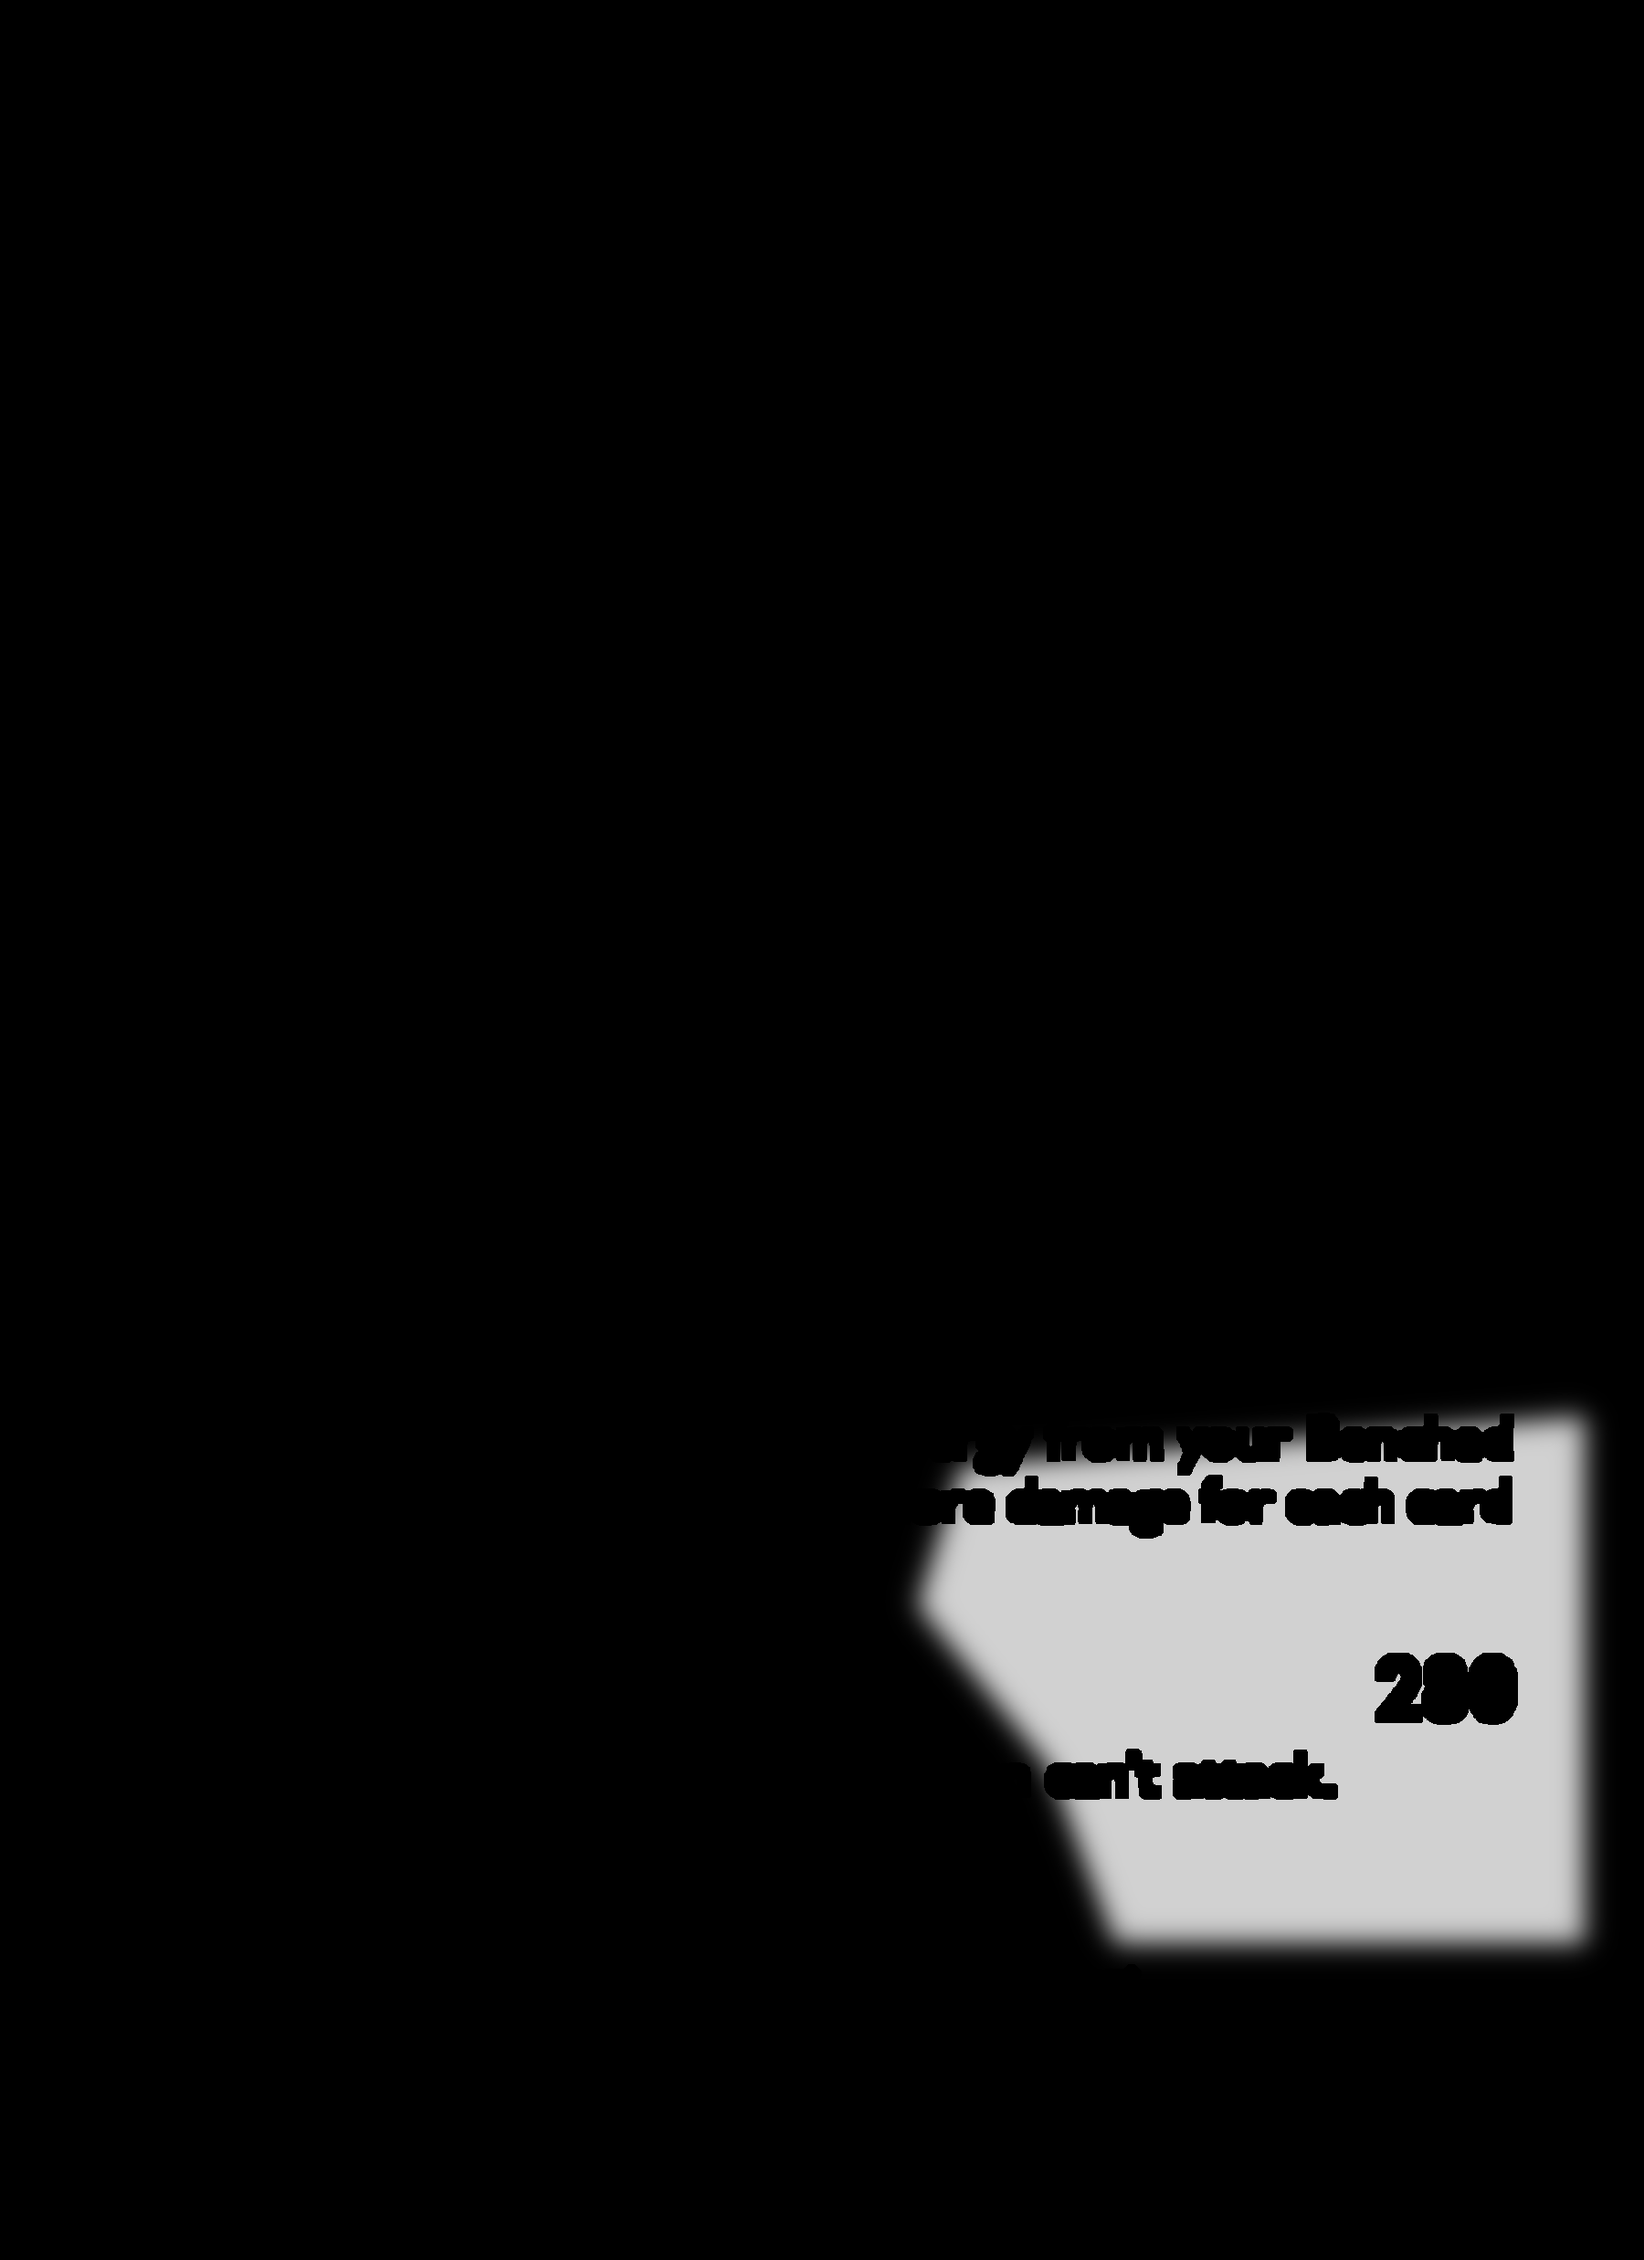
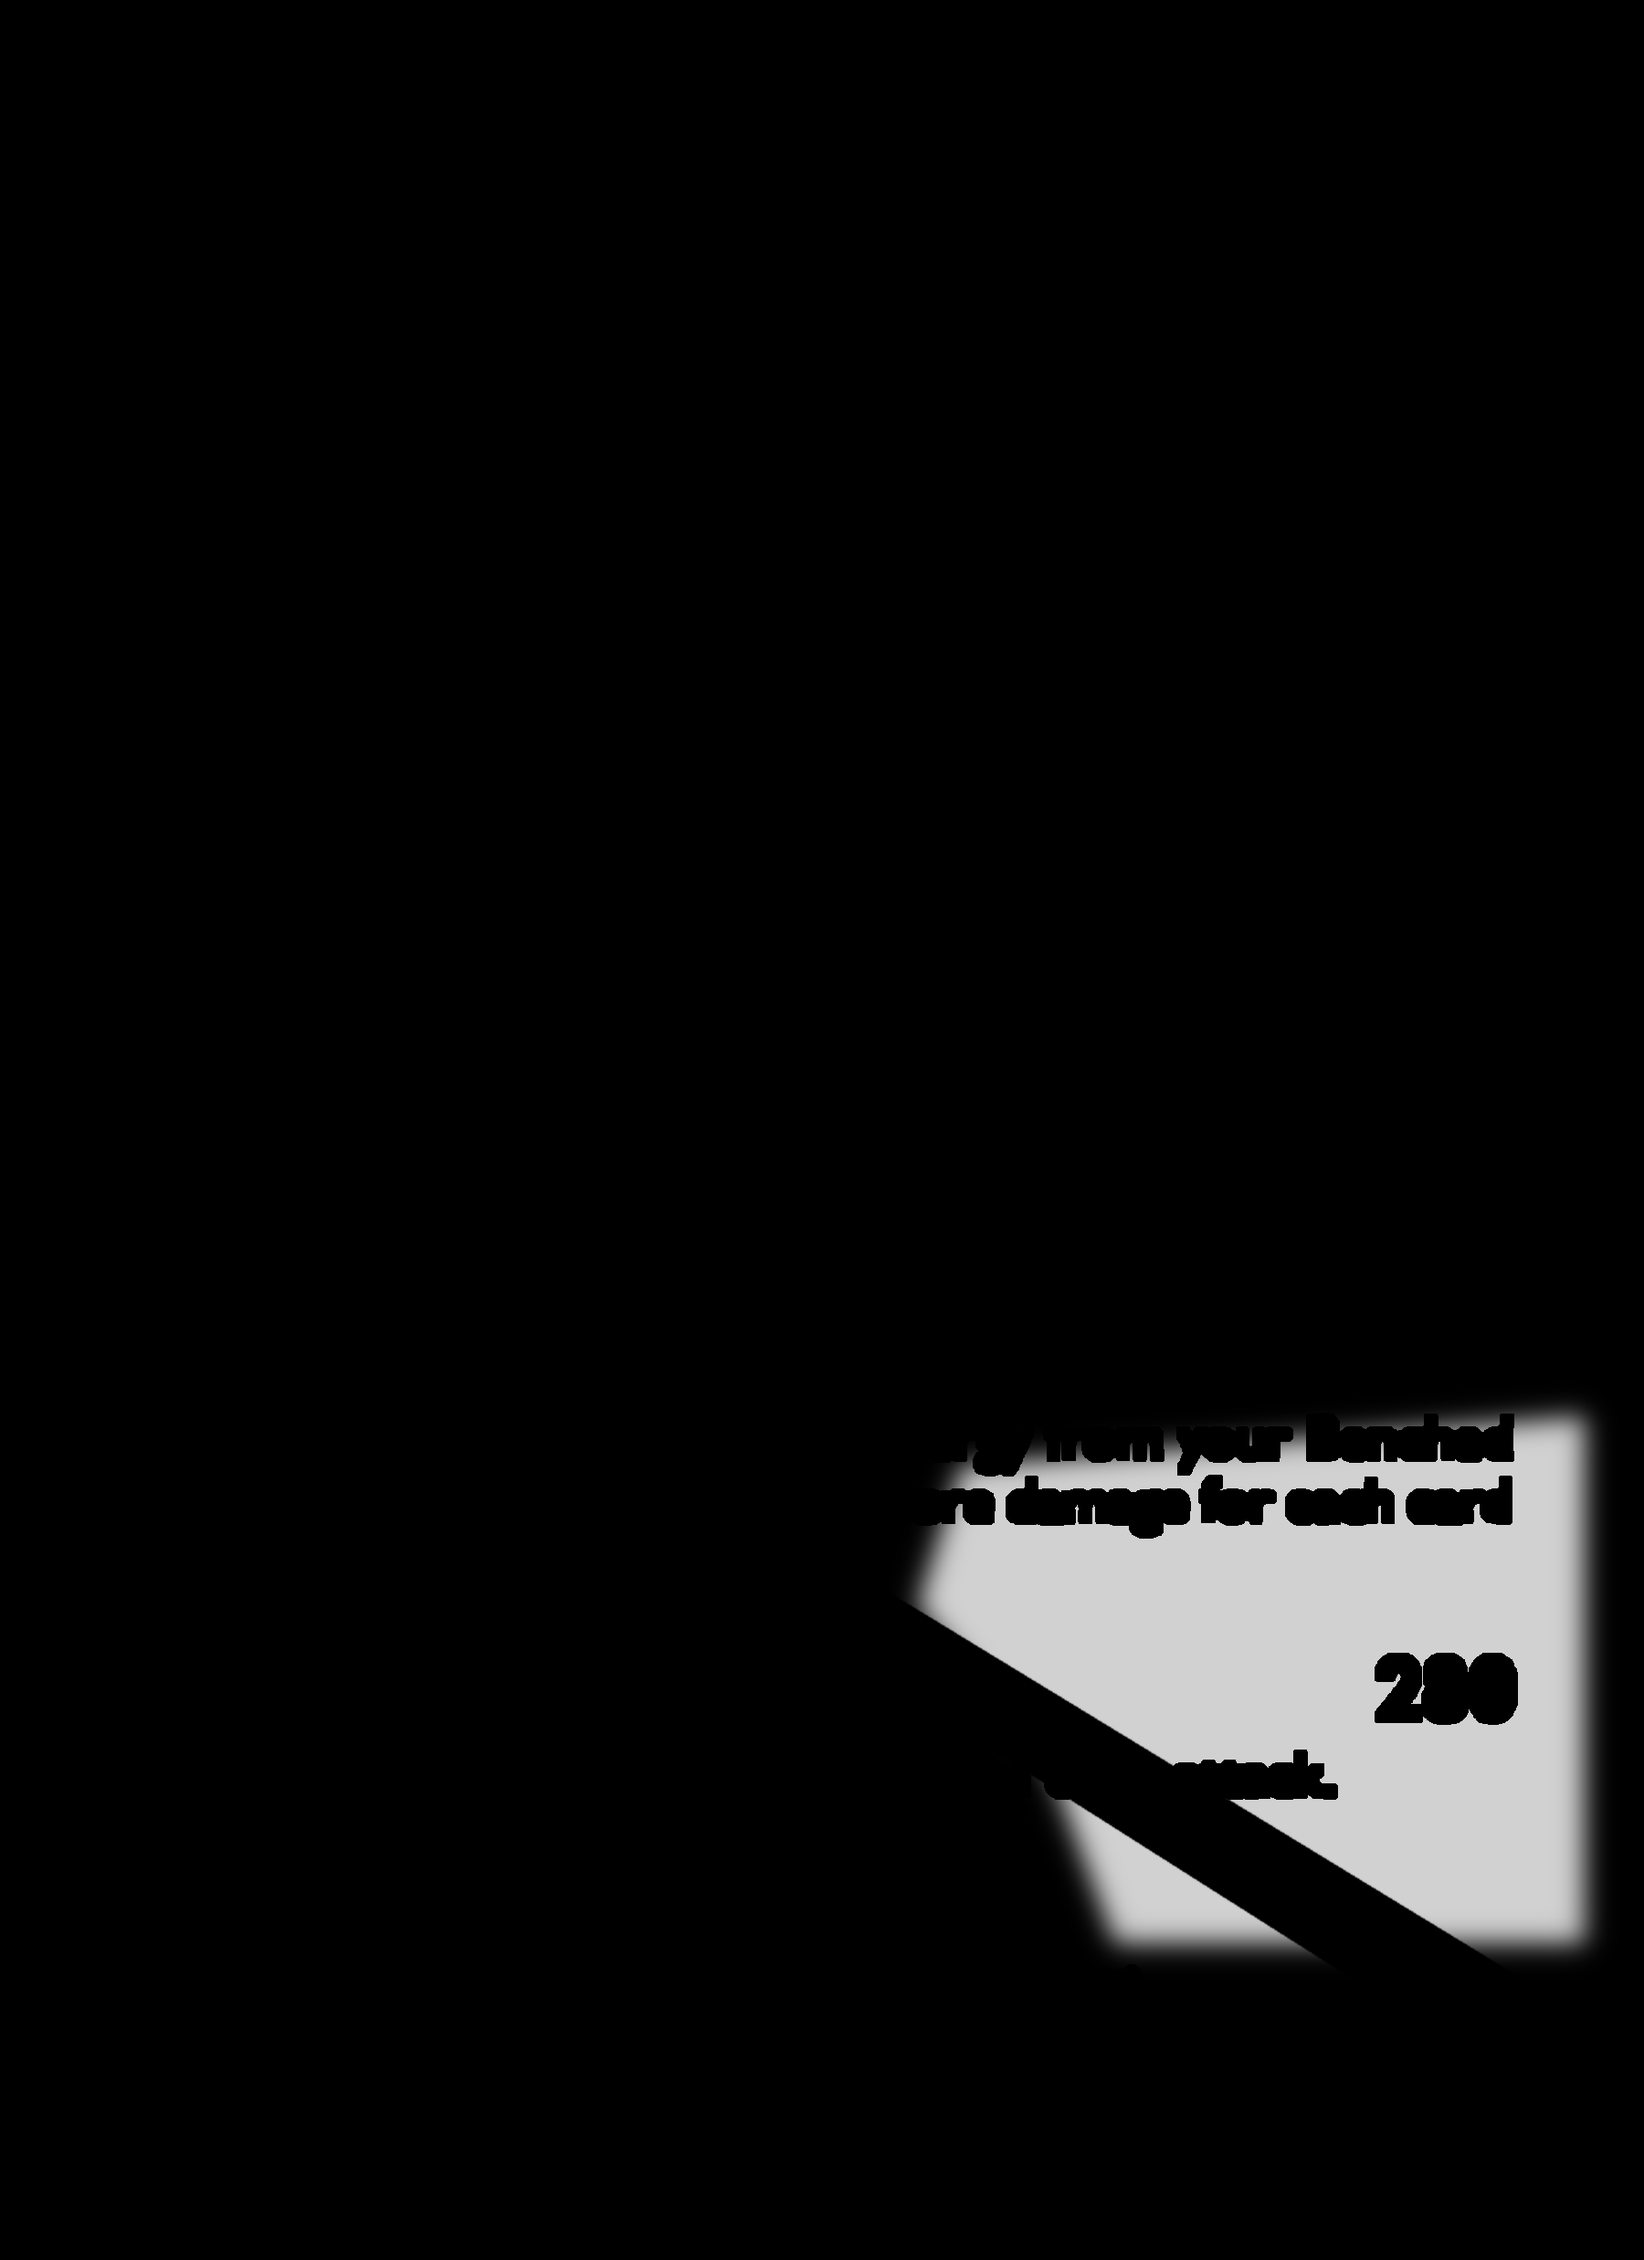
Exclude Jolteon diagonal bar from microdiamond coverage

Changed region(s): [[0.56, 0.7156, 0.9022, 0.8711]]

diff --git a/scripts/prismatic/jolteon_maps.py b/scripts/prismatic/jolteon_maps.py
@@ -69,6 +69,11 @@ def build():
     # transition is an estimate, feathered without following print brightness.
     right=poly([(351,535),(578,517),(578,709),(407,709),(383,645),(335,586)])
     right=cv2.GaussianBlur(right,(0,0),14)*(1-body)*(1-gems)*(1-protection)*.82
+    # The pale diagonal slash is etched foil, not microdiamond material.
+    # Clip after feathering the surrounding field to keep this printed edge crisp.
+    diagonal_bar=poly([(267,548),(306,570),(578,736),
+                       (531,746),(246,565)])
+    right*=1-diagonal_bar
     smooth_micro=np.maximum(gems,silver)*(1-protection)*(1-energy)
     secondary=np.maximum(smooth_micro,right)*(1-energy)
     inner=poly([(23,24),(577,24),(577,801),(23,801)])
